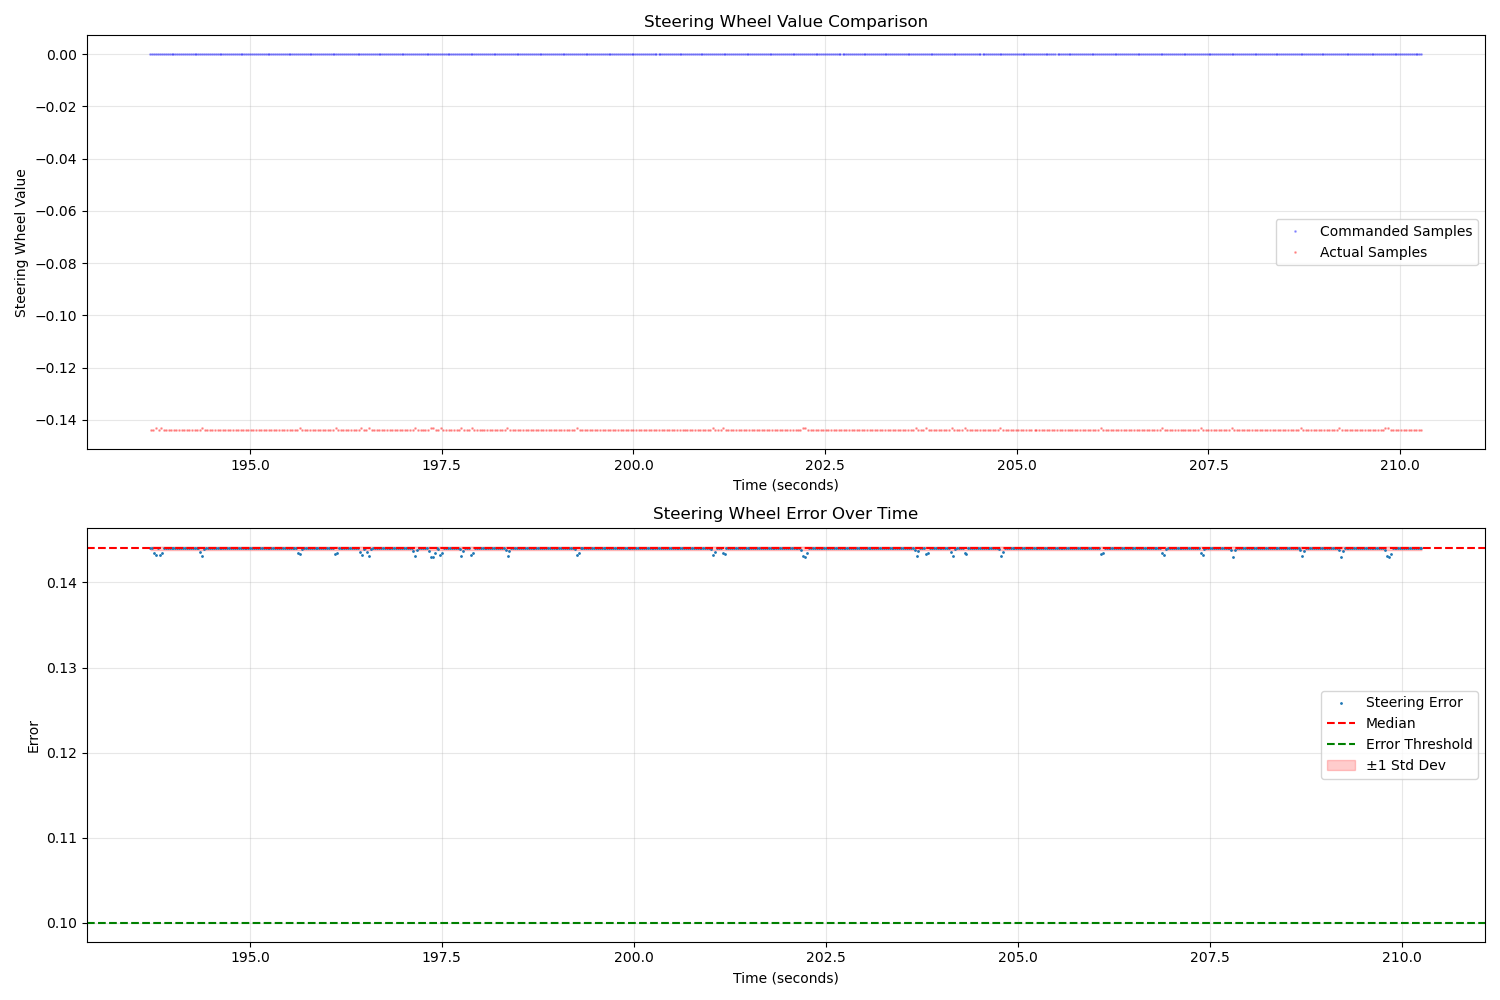
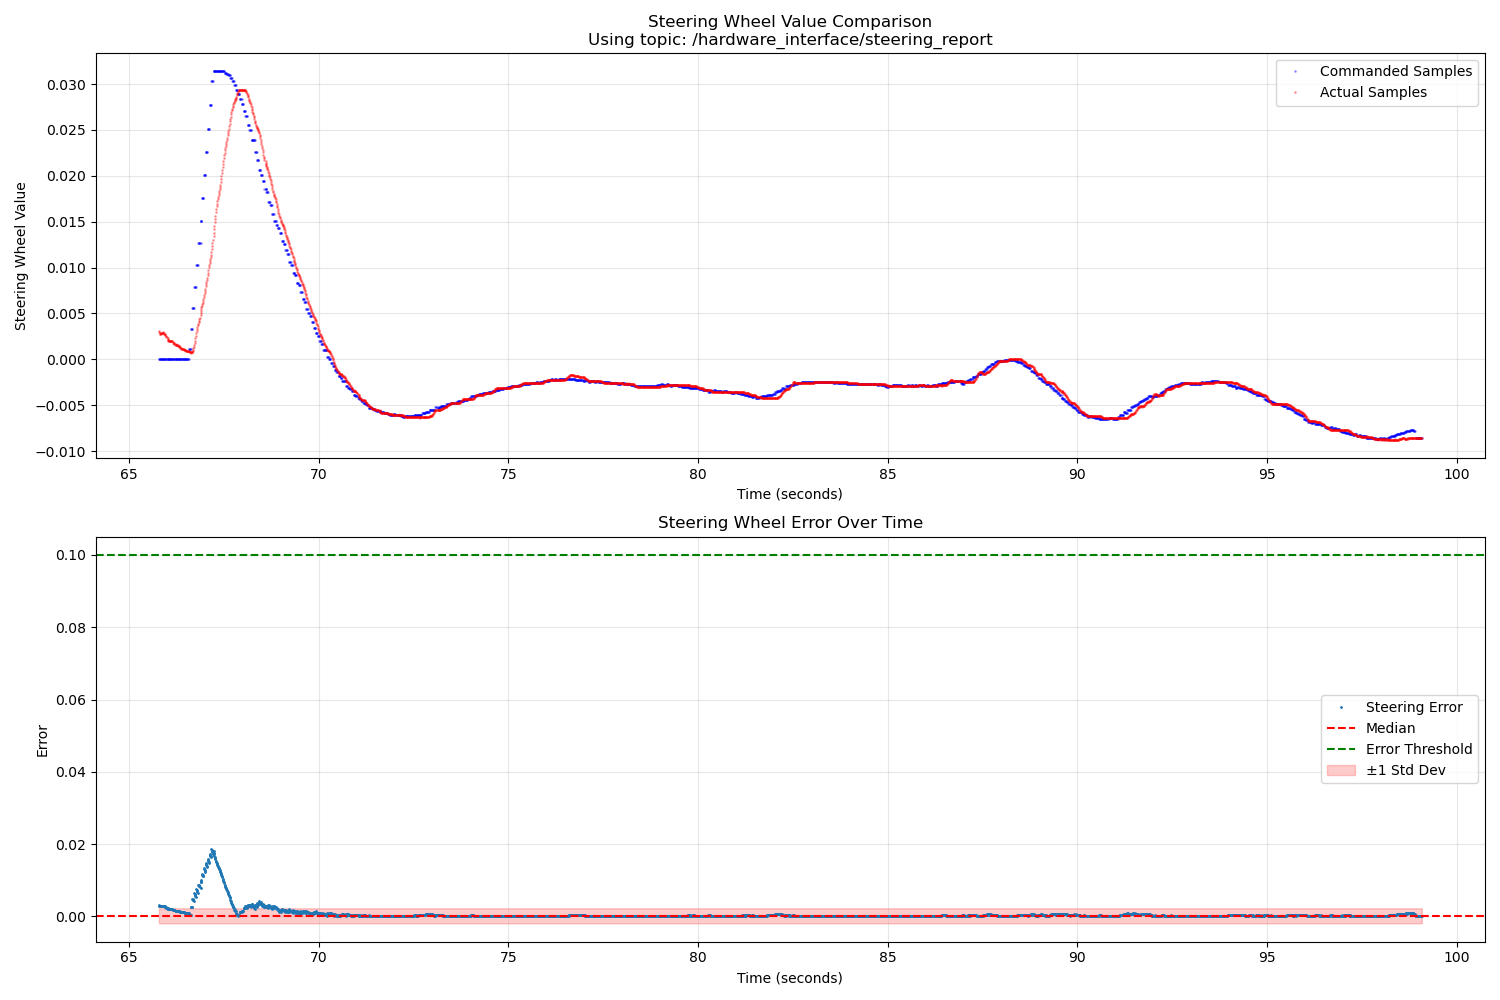
update example and fix topic

diff --git a/src/carma-platform/guidance_scripts.py b/src/carma-platform/guidance_scripts.py
@@ -1032,7 +1032,7 @@ def extract_steering_data(mcap_path, start_time=None, end_time=None):
             'extractors': {
                 HARDWARE_DATASPEED_STEER_REPORT_TOPIC: lambda msg: (
                     msg.steering_wheel_angle,  # rad
-                    msg.steering_wheel_angle_cmd  # rad
+                    msg.steering_wheel_cmd  # rad
                 )
             }
         },
@@ -1042,7 +1042,7 @@ def extract_steering_data(mcap_path, start_time=None, end_time=None):
             'extractors': {
                 HARDWARE_NEWEAGLE_STEER_REPORT_TOPIC: lambda msg: (
                     msg.steering_wheel_angle * DEG_TO_RAD,  # deg to rad
-                    msg.steering_wheel_cmd * DEG_TO_RAD  # deg to rad
+                    msg.steering_wheel_angle_cmd * DEG_TO_RAD  # deg to rad
                 )
             }
         }
